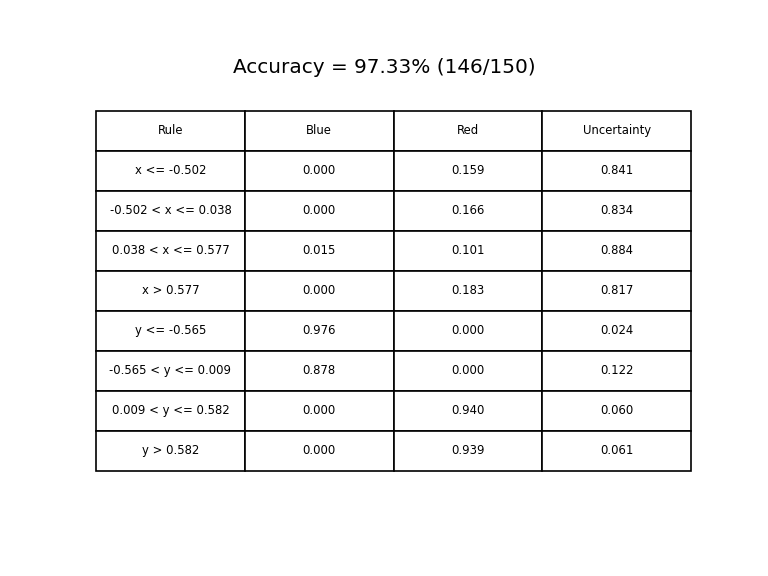
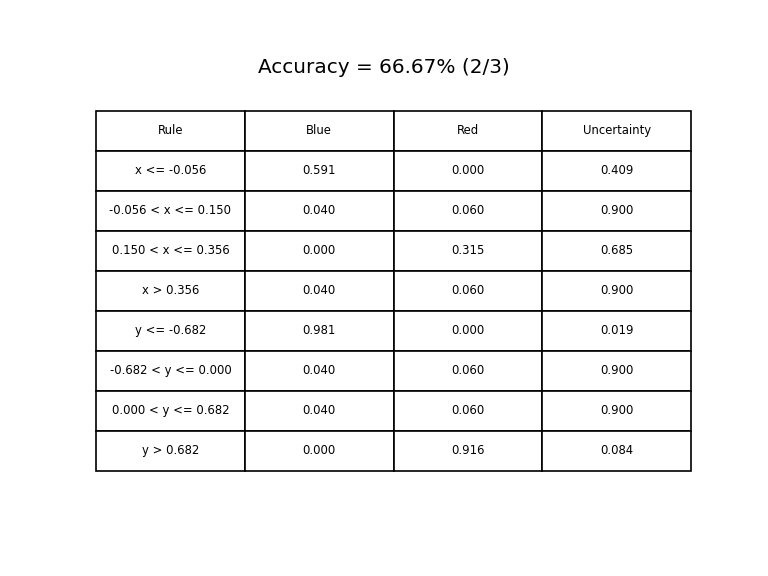
Update

diff --git a/src/model.py b/src/model.py
@@ -51,37 +51,8 @@ def get_two_class_probabilities(dict_m, dataset_name):
     #return r/(r+b+r_b), b/(r+b+r_b), r_b 
     #return (r+p_a)/2, (b+p_b)/2, r_b # Uncertainty 1.0 with useless rule
 
-# def get_class_probabilities_bc(dict_m):
-#     b   = dict_m[frozenset({'B'})]
-#     m   = dict_m[frozenset({'M'})]
-#     b_m = dict_m[frozenset({'B','M'})]
-#     #max_m = max(r, b)
-#     p_b = b + b_m
-#     p_m = m + b_m
-#     p_tot = p_b + p_m
-#     return p_m/p_tot, p_b/p_tot # It works with projection working!
 
-
-
-# def model_predict_train_bc(a,b,c,d,e,f,g,h,i, rule_set):
-#     M = []
-#     for m,_,s in rule_set:
-#         if s(a,b,c,d,e,f,g,h,i): # Point coordinates (y is NOT label class here)
-#             M.append(m)
-
-#     m = weight_full_uncertainty_bc()
-#     for m_i in M:
-#         m = dempster_rule(m,m_i)
-        
-#     r_prob, b_prob = get_class_probabilities_bc(m)
-#     # Change order to match one hot encoding of classes
-#     # Blue (class 0) => [1 0]
-#     # Red  (class 1) => [0 1]
-#     y_hat = [b_prob, r_prob]
-
-#     return y_hat
-
-def model_predict_train(rule_set, dataset_name, *att):
+def prediction(rule_set, dataset_name, *att):
     # Args is x,y in A1 and 9 attributes in Breast Cancer
     M = []
     for m,_,s in rule_set:
@@ -100,27 +71,11 @@ def model_predict_train(rule_set, dataset_name, *att):
 
     return y_hat
 
-
-# def model_predict_train_v2(X, rule_set, dataset_name):
-#     if dataset_name == "A1_Dataset":
-#         y_hat_list = []
-#         for att in X:
-#             y_hat = model_predict_train(rule_set, dataset_name, *att)
-#             y_hat_list.append(y_hat)
-#         return y_hat_list
-#     elif dataset_name == "BC_Dataset":
-#         y_hat_list = []
-#         for a,b,c,d,e,f,g,h,i in X:
-#             y_hat = model_predict_train_bc(a,b,c,d,e,f,g,h,i,rule_set)
-#             y_hat_list.append(y_hat)
-#         return y_hat_list
-#     else:
-#         assert False
     
-def model_predict_train_test(X, rule_set, dataset_name):
+def model_predict(X, rule_set, dataset_name):
     y_hat_list = []
     for att in X:
-        y_hat = model_predict_train(rule_set, dataset_name, *att)
+        y_hat = prediction(rule_set, dataset_name, *att)
         y_hat_list.append(y_hat)
     return y_hat_list
 
@@ -132,7 +87,7 @@ def training(X, Y, rule_set, loss, dataset_name):
 
     for i in range(NUM_EPOCHS):
         # Model predictions
-        y_hat_list = model_predict_train_test(X, rule_set, dataset_name)
+        y_hat_list = model_predict(X, rule_set, dataset_name)
 
         # Compute loss
         batch_loss = mse(Y, y_hat_list)
@@ -197,34 +152,6 @@ def model_inference(rule_set, dataset_name, *att):
         
     return y_argmax(m)
 
-# def model_inference_bc(a,b,c,d,e,f,g,h,i, rule_set):
-#     M = []
-#     for m,_,s in rule_set:
-#         if s(a,b,c,d,e,f,g,h,i): # Point coordinates (y is NOT label class here)
-#             M.append(m)
-
-#     m = weight_full_uncertainty_A1()
-#     for m_i in M:
-#         m = dempster_rule(m,m_i)
-        
-#     return y_argmax(m)
-
-
-# def inference(X, rule_set, dataset_name):
-#     if dataset_name == "A1_Dataset":
-#         y_hat_list = []
-#         for att in X:
-#             y_hat = model_inference(rule_set, dataset_name, *att)
-#             y_hat_list.append(y_hat)
-#         return y_hat_list
-#     elif dataset_name == "BC_Dataset":
-#         y_hat_list = []
-#         for a,b,c,d,e,f,g,h,i in X:
-#             y_hat = model_inference_bc(a,b,c,d,e,f,g,h,i, rule_set)
-#             y_hat_list.append(y_hat)
-#         return y_hat_list
-#     else:
-#         assert False
 
 def inference_test(X, rule_set, dataset_name):
     y_hat_list = []

diff --git a/src/main.py b/src/main.py
@@ -39,8 +39,8 @@ def evaluate_A1_dataset(dataset_name):
     graph_filepath = os.path.join(IMAGE_FOLDER, A1_LOSS_IMG)
     table_filepath = os.path.join(IMAGE_FOLDER, A1_RULE_TABLE)
 
-    X_train, Y_train, X_test, Y_test = dataset_A1()
-    #X_train, Y_train, X_test, Y_test = test_data()
+    #X_train, Y_train, X_test, Y_test = dataset_A1()
+    X_train, Y_train, X_test, Y_test = test_data()
 
     rule_set, rule_presentation = generate_rules_dataset_A1(X_train, dataset_name)
     loss = MSE()
